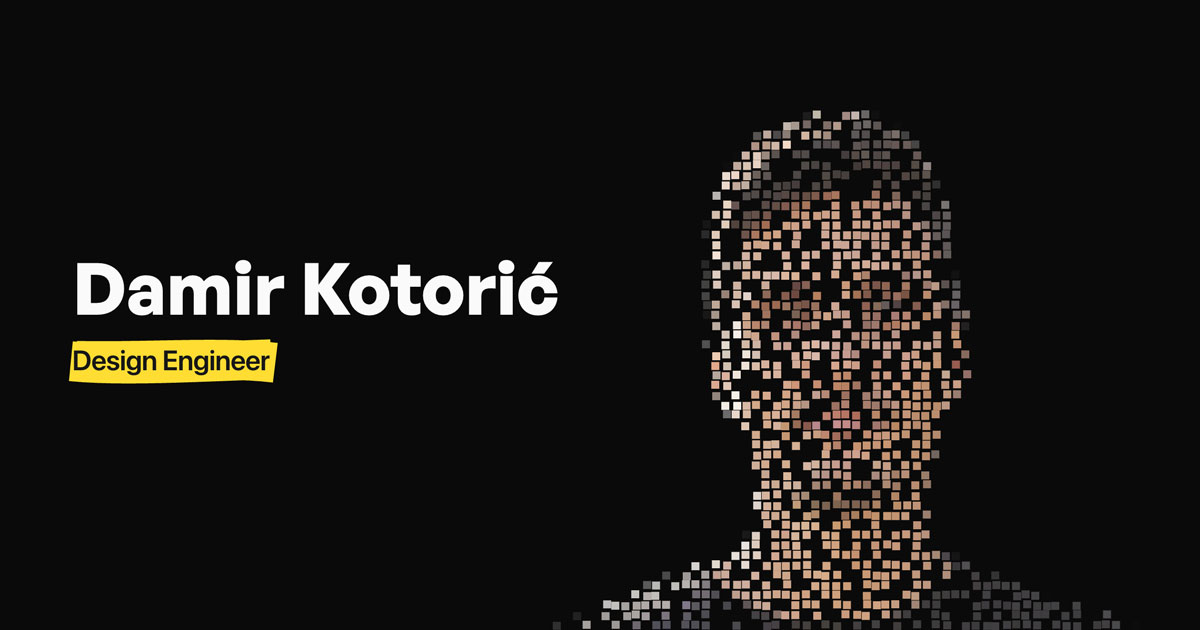
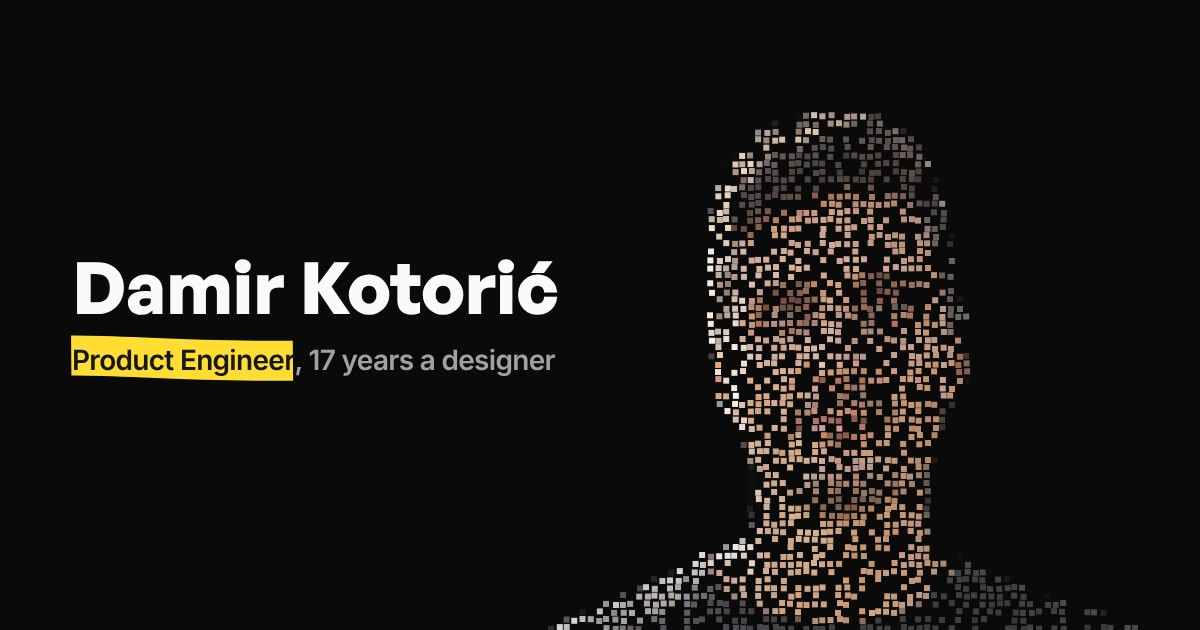
Rename role to Product Engineer, add designer tagline, regenerate OG image
Claude-Session: https://claude.ai/code/session_01HQqHMG672U5DbUKSaTinrv

diff --git a/src/app/page.tsx b/src/app/page.tsx
@@ -30,6 +30,7 @@ import {
   FULL_NAME,
   PERSON_ID,
   ROLE,
+  ROLE_TAGLINE,
   SITE_DESCRIPTION,
   SITE_URL,
   socials,
@@ -152,7 +153,8 @@ export default function HomePage() {
                       {FULL_NAME}
                     </h1>
                     <p className="relative mb-3 text-2xl font-semibold text-muted-foreground sm:text-[28px]">
-                      <Highlighter color="var(--highlight)" delay={1500} isView className="relative inline-block bg-transparent tracking-tight" activeClassName="text-highlight-foreground transition-colors">{ROLE}</Highlighter>
+                      <Highlighter color="var(--highlight)" delay={1500} isView className="relative inline-block bg-transparent tracking-tight" activeClassName="text-highlight-foreground transition-colors">{ROLE}</Highlighter>,{" "}
+                      <span className="whitespace-nowrap">{ROLE_TAGLINE}</span>
                     </p>
                     <p className="mb-6 leading-relaxed">
                       I partner with funded startups and product teams on the

diff --git a/src/app/og-image/page.tsx b/src/app/og-image/page.tsx
@@ -1,7 +1,7 @@
 import { Metadata } from "next";
 import { PixelatedAvatar } from "@/components/pixelated-avatar";
 import { Highlighter } from "@/components/ui/highlighter";
-import { FULL_NAME, ROLE } from "@/data/socials";
+import { FULL_NAME, ROLE, ROLE_TAGLINE } from "@/data/socials";
 
 export const metadata: Metadata = {
   robots: {
@@ -22,7 +22,7 @@ export default function OgImagePage() {
           {FULL_NAME}
         </h1>
         <p className="relative text-[28px] font-semibold text-muted-foreground mt-3 tracking-tight">
-          <Highlighter color="var(--highlight)" delay={0} className="relative inline-block bg-transparent tracking-tight" activeClassName="text-highlight-foreground transition-colors">{ROLE}</Highlighter>
+          <Highlighter color="var(--highlight)" delay={0} className="relative inline-block bg-transparent tracking-tight" activeClassName="text-highlight-foreground transition-colors">{ROLE}</Highlighter>, {ROLE_TAGLINE}
         </p>
       </div>
 

diff --git a/src/data/socials.ts b/src/data/socials.ts
@@ -2,7 +2,8 @@ export const SITE_URL = "https://damirkotoric.com";
 
 export const NAME = { first: "Damir", last: "Kotorić" } as const;
 export const FULL_NAME = `${NAME.first} ${NAME.last}`;
-export const ROLE = "Design Engineer";
+export const ROLE = "Product Engineer";
+export const ROLE_TAGLINE = "17 years a designer";
 export const SITE_DESCRIPTION =
   "I partner with funded startups and product teams on the end-to-end creation of AI-powered software products.";
 

diff --git a/README.md b/README.md
@@ -1,6 +1,6 @@
 # damirkotoric.com
 
-Design Engineer. I build with React, Next.js, TypeScript. See my work at https://damirkotoric.com
+Product Engineer. I build with React, Next.js, TypeScript. See my work at https://damirkotoric.com
 
 ## Tech Stack
 
